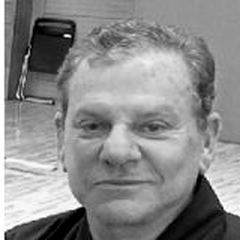
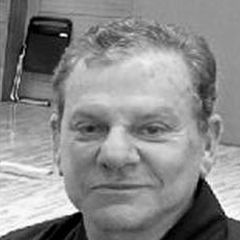
Mobile-native lineage chart; fix Pedro portrait crop

diff --git a/index.html b/index.html
@@ -131,7 +131,7 @@
         it to the name below. This is the unbroken chain that connects a Saturday class in Coral Terrace to
         the man who founded modern Musō Shinden-ryū.</p>
         <div class="tree-scroll">
-          <svg class="tree-svg" viewBox="0 0 760 1240" role="img" aria-label="Lineage chart of Muso Shinden-ryu at Miami Budokan. Nakayama Hakudo, 1873 to 1958, taught Omura Tadaji and Hashimoto Toyo. Hashimoto Toyo taught Okada Morihiro, 1893 to 1984, who taught Yamamoto Shigeo. Omura Tadaji also taught Yamamoto Shigeo. Yamamoto Shigeo taught Kaneda Masao and Kaneda Kazuhisa. Omura Tadaji taught Kaneda Masao, who also taught Kaneda Kazuhisa, our dojo shihan. Kaneda Kazuhisa teaches Rodney Castillo, Pedro Sors, and Benjamin Sardinas.">
+          <svg class="tree-svg tree-chart" viewBox="0 0 760 1240" role="img" aria-label="Lineage chart of Muso Shinden-ryu at Miami Budokan. Nakayama Hakudo, 1873 to 1958, taught Omura Tadaji and Hashimoto Toyo. Hashimoto Toyo taught Okada Morihiro, 1893 to 1984, who taught Yamamoto Shigeo. Omura Tadaji also taught Yamamoto Shigeo. Yamamoto Shigeo taught Kaneda Masao and Kaneda Kazuhisa. Omura Tadaji taught Kaneda Masao, who also taught Kaneda Kazuhisa, our dojo shihan. Kaneda Kazuhisa teaches Rodney Castillo, Pedro Sors, and Benjamin Sardinas.">
             <defs>
               <marker id="arr" viewBox="0 0 8 8" refX="7" refY="4" markerWidth="7" markerHeight="7" orient="auto-start-reverse">
                 <path d="M0 0L8 4L0 8z" fill="rgba(28,34,46,.45)"/>
@@ -213,6 +213,80 @@
             <rect class="ph" x="591" y="1094" width="84" height="84"/>
             <text class="tn" x="633" y="1208" text-anchor="middle">Benjamin Sardinas</text>
             <text class="ts" x="633" y="1228" text-anchor="middle">Senior Instructor</text>
+          </svg>
+
+          <svg class="tree-svg-m tree-chart" viewBox="0 0 400 1020" role="img" aria-label="Lineage chart of Muso Shinden-ryu at Miami Budokan. Nakayama Hakudo, 1873 to 1958, taught Omura Tadaji and Hashimoto Toyo. Hashimoto Toyo taught Okada Morihiro, 1893 to 1984, who taught Yamamoto Shigeo. Omura Tadaji also taught Yamamoto Shigeo. Yamamoto Shigeo taught Kaneda Masao and Kaneda Kazuhisa. Omura Tadaji taught Kaneda Masao, who also taught Kaneda Kazuhisa, our dojo shihan. Kaneda Kazuhisa teaches Rodney Castillo, Pedro Sors, and Benjamin Sardinas.">
+            <defs>
+              <marker id="arrm" viewBox="0 0 8 8" refX="7" refY="4" markerWidth="7" markerHeight="7" orient="auto-start-reverse">
+                <path d="M0 0L8 4L0 8z" fill="rgba(28,34,46,.45)"/>
+              </marker>
+            </defs>
+
+            <path class="ln" d="M200 116 V140"/>
+            <path class="ln" d="M100 140 H300"/>
+            <path class="ln" d="M100 140 V168"/>
+            <path class="ln" d="M300 140 V168"/>
+            <path class="ln" d="M300 266 V294"/>
+            <path class="ln" d="M300 408 V436"/>
+            <path class="ln" d="M100 266 V560"/>
+            <path class="ln" d="M300 536 V710"/>
+            <path class="ln" d="M100 710 H300"/>
+            <path class="ln" d="M200 710 V734"/>
+            <path class="ln" d="M200 848 V872"/>
+            <path class="ln" d="M66 872 H334"/>
+            <path class="ln" d="M66 872 V900"/>
+            <path class="ln" d="M200 872 V900"/>
+            <path class="ln" d="M334 872 V900"/>
+
+            <path class="ln-d" d="M100 468 H262" marker-end="url(#arrm)"/>
+            <path class="ln-d" d="M288 536 V592 H138" marker-end="url(#arrm)"/>
+            <path class="ln-d" d="M100 658 V704" marker-end="url(#arrm)"/>
+
+            <image href="assets/img/lineage-nakayama.jpg" x="168" y="0" width="64" height="64"/>
+            <rect class="ph" x="168" y="0" width="64" height="64"/>
+            <text class="tn tn-root" x="200" y="90" text-anchor="middle">Nakayama Hakudo</text>
+            <text class="ts" x="200" y="108" text-anchor="middle">1873-1958 · founder of modern Musō Shinden-ryū</text>
+
+            <image href="assets/img/lineage-omura.jpg" x="68" y="168" width="64" height="64"/>
+            <rect class="ph" x="68" y="168" width="64" height="64"/>
+            <text class="tn" x="100" y="256" text-anchor="middle">Omura Tadaji</text>
+
+            <image href="assets/img/lineage-hashimoto.jpg" x="268" y="168" width="64" height="64"/>
+            <rect class="ph" x="268" y="168" width="64" height="64"/>
+            <text class="tn" x="300" y="256" text-anchor="middle">Hashimoto Toyo</text>
+
+            <image href="assets/img/lineage-okada.jpg" x="268" y="294" width="64" height="64"/>
+            <rect class="ph" x="268" y="294" width="64" height="64"/>
+            <text class="tn" x="300" y="382" text-anchor="middle">Okada Morihiro</text>
+            <text class="ts" x="300" y="400" text-anchor="middle">1893-1984</text>
+
+            <image href="assets/img/lineage-yamamoto.jpg" x="268" y="436" width="64" height="64"/>
+            <rect class="ph" x="268" y="436" width="64" height="64"/>
+            <text class="tn" x="300" y="524" text-anchor="middle">Yamamoto Shigeo</text>
+
+            <image href="assets/img/lineage-masao.jpg" x="68" y="560" width="64" height="64"/>
+            <rect class="ph" x="68" y="560" width="64" height="64"/>
+            <text class="tn" x="100" y="648" text-anchor="middle">Kaneda Masao</text>
+
+            <image href="assets/img/lineage-kazuhisa.jpg" x="168" y="734" width="64" height="64"/>
+            <rect class="ph" x="168" y="734" width="64" height="64"/>
+            <text class="tn tn-shihan" x="200" y="822" text-anchor="middle">Kaneda Kazuhisa</text>
+            <text class="ts" x="200" y="840" text-anchor="middle">our dojo shihan</text>
+
+            <image href="assets/img/lineage-rodney.jpg" x="34" y="900" width="64" height="64"/>
+            <rect class="ph" x="34" y="900" width="64" height="64"/>
+            <text class="tn tn3" x="66" y="986" text-anchor="middle">Rodney Castillo</text>
+            <text class="ts" x="66" y="1004" text-anchor="middle">Head Instructor</text>
+
+            <image href="assets/img/lineage-pedro.jpg" x="168" y="900" width="64" height="64"/>
+            <rect class="ph" x="168" y="900" width="64" height="64"/>
+            <text class="tn tn3" x="200" y="986" text-anchor="middle">Pedro Sors</text>
+            <text class="ts" x="200" y="1004" text-anchor="middle">Senior Instructor</text>
+
+            <image href="assets/img/lineage-benjamin.jpg" x="302" y="900" width="64" height="64"/>
+            <rect class="ph" x="302" y="900" width="64" height="64"/>
+            <text class="tn tn3" x="334" y="986" text-anchor="middle">Benjamin Sardinas</text>
+            <text class="ts" x="334" y="1004" text-anchor="middle">Senior Instructor</text>
           </svg>
         </div>
         <p class="lineage-legend">Solid lines mark the primary line of transmission. Dashed lines mark additional study.</p>

diff --git a/assets/style.css b/assets/style.css
@@ -335,15 +335,24 @@
   .lineage{margin-top:clamp(56px,7vw,92px)}
   .lineage .label{color:var(--t-on-washi-muted)}
   .lineage-intro{margin-top:22px;color:var(--t-on-washi-muted);font-size:14.5px;max-width:56ch}
-  .tree-scroll{overflow-x:auto;margin:clamp(36px,5vw,56px) auto 0;max-width:760px}
-  .tree-svg{display:block;width:100%;min-width:560px;height:auto}
-  .tree-svg .tn{font-family:var(--serif);font-weight:570;font-size:24px;fill:var(--t-on-washi)}
-  .tree-svg .tn-root{font-size:26px}
-  .tree-svg .tn-shihan{fill:var(--shu)}
-  .tree-svg .ts{font-family:var(--sans);font-size:13px;fill:var(--t-on-washi-muted);letter-spacing:.6px}
-  .tree-svg .ln{stroke:rgba(28,34,46,.4);stroke-width:1.2;fill:none}
-  .tree-svg .ln-d{stroke:rgba(28,34,46,.45);stroke-width:1.2;fill:none;stroke-dasharray:5 5}
-  .tree-svg .ph{stroke:rgba(28,34,46,.25);fill:none;stroke-width:1}
+  .tree-scroll{margin:clamp(36px,5vw,56px) auto 0;max-width:760px}
+  .tree-svg{display:block;width:100%;height:auto}
+  .tree-svg-m{display:none}
+  @media (max-width:600px){
+    .tree-svg{display:none}
+    .tree-svg-m{display:block;width:100%;height:auto}
+  }
+  svg.tree-svg-m .tn{font-size:17px}
+  svg.tree-svg-m .tn-root{font-size:19px}
+  svg.tree-svg-m .tn3{font-size:14px}
+  svg.tree-svg-m .ts{font-size:10.5px;letter-spacing:.3px}
+  .tree-chart .tn{font-family:var(--serif);font-weight:570;font-size:24px;fill:var(--t-on-washi)}
+  .tree-chart .tn-root{font-size:26px}
+  .tree-chart .tn-shihan{fill:var(--shu)}
+  .tree-chart .ts{font-family:var(--sans);font-size:13px;fill:var(--t-on-washi-muted);letter-spacing:.6px}
+  .tree-chart .ln{stroke:rgba(28,34,46,.4);stroke-width:1.2;fill:none}
+  .tree-chart .ln-d{stroke:rgba(28,34,46,.45);stroke-width:1.2;fill:none;stroke-dasharray:5 5}
+  .tree-chart .ph{stroke:rgba(28,34,46,.25);fill:none;stroke-width:1}
   .lineage-legend{margin-top:18px;font-size:12.5px;color:var(--t-on-washi-muted);text-align:center}
 
   /* ============ Philosophy ============ */